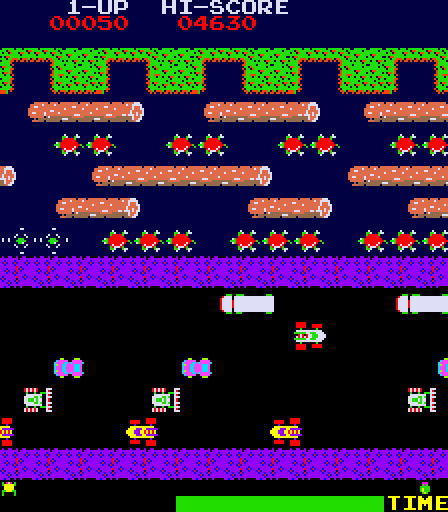
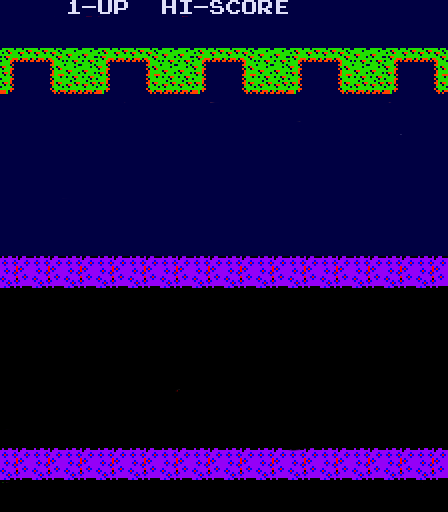
fixed frog movement and start location

diff --git a/JSFrogger/Index.html b/JSFrogger/Index.html
@@ -1,4 +1,4 @@
-<!DOCTYPE html>
+<!DOCTYPE html>
 <html>
 <head>
 		<title>JavaScript and Html5 Frogger Game</title>
@@ -126,12 +126,14 @@
 
 
             function startGame() {
+                stage.addChild(background);
+
                 var scoreDisplay = new createjs.Text();
                 scoreDisplay.textAlign = "right";
-                scoreDisplay.x = 438;
-                scoreDisplay.y = 14;
-                scoreDisplay.font = "bold 24px monospace";
-                scoreDisplay.color = "#00FF33";
+                scoreDisplay.x = 135;
+                scoreDisplay.y = 16;
+                scoreDisplay.font = "bold 20px monospace";
+                scoreDisplay.color = "#ff0000";
                 scoreDisplay.text = "000000";
                 stage.addChild(scoreDisplay);
 
@@ -141,10 +143,8 @@
 
                 // Creating the Hero
                 Hero = new Frog("frog",frogImage, screen_width);
-                Hero.x = 50;
-                Hero.y = 50;
-                stage.addChild(background);
-
+                Hero.x = 212;
+                Hero.y = 484;
                 stage.addChild(Hero);
 
                 // we want to do some work before we update the canvas,
@@ -177,6 +177,7 @@
                     case KEYCODE_DOWN:
                         if (Hero.alive) {
                             Hero.direction = -2;
+                            Hero.mustMove = true;
                             Hero.isInIdleMode = false;
                             Hero.gotoAndPlay("hop_v");
                         }
@@ -184,6 +185,7 @@
                     case KEYCODE_LEFT:
                         if (Hero.alive) {
                             Hero.direction = -1;
+                            Hero.mustMove = true;
                             Hero.isInIdleMode = false;
                             Hero.gotoAndPlay("idle");
                         }
@@ -191,6 +193,7 @@
                     case KEYCODE_UP:
                         if (Hero.alive) {
                             Hero.direction = 2;
+                            Hero.mustMove = true;
                             Hero.isInIdleMode = false;
                             Hero.gotoAndPlay("hop");
                         }
@@ -198,6 +201,7 @@
                     case KEYCODE_RIGHT:
                         if (Hero.alive) {
                             Hero.direction = 1;
+                            Hero.mustMove = true;
                             Hero.isInIdleMode = false;
                             Hero.gotoAndPlay("idle");
                         }

diff --git a/JSFrogger/scripts/Frog.js b/JSFrogger/scripts/Frog.js
@@ -9,6 +9,7 @@
     Frog.prototype.bounds = 0; //visual radial size
     Frog.prototype.hit = 0;     //average radial disparity
     Frog.prototype.alive = true;
+    Frog.prototype.mustMove = false;
     // constructor:
     Frog.prototype.BitmapAnimation_initialize = Frog.prototype.initialize; //unique to avoid overiding base class
 
@@ -26,7 +27,7 @@
             animations: {
                 // start, end, next, frequency
                 hop: [0, 3, "idle"],
-                idle: 13
+                idle: 0
             }
         });
 
@@ -50,17 +51,19 @@
     Frog.prototype.tick = function () {
         if (!this.isInIdleMode) {
             // Moving the sprite based on the direction & the speed
-            var moveDistance = 30;
-            if (this.direction == -2) {
-                this.y += -moveDistance;
-            } else if (this.direction == -1) {
-                this.x += -moveDistance;
-            } else if (this.direction == 1) {
-                this.x += moveDistance;
-            } else if (this.direction == 2) {
-                this.y += moveDistance;
+            var moveDistance = 32;
+            if (this.mustMove == true) {
+                if (this.direction == -2) {
+                    this.y += moveDistance;
+                } else if (this.direction == -1) {
+                    this.x -= moveDistance;
+                } else if (this.direction == 1) {
+                    this.x += moveDistance;
+                } else if (this.direction == 2) {
+                    this.y -= moveDistance;
+                }
+                this.mustMove = false;
             }
-
             // Hit testing the screen width, otherwise our sprite would disappear
             if (this.x >= this.x_end - (quaterFrameSize + 1) || this.x < (quaterFrameSize + 1)) {
                 this.gotoAndPlay("idle");
